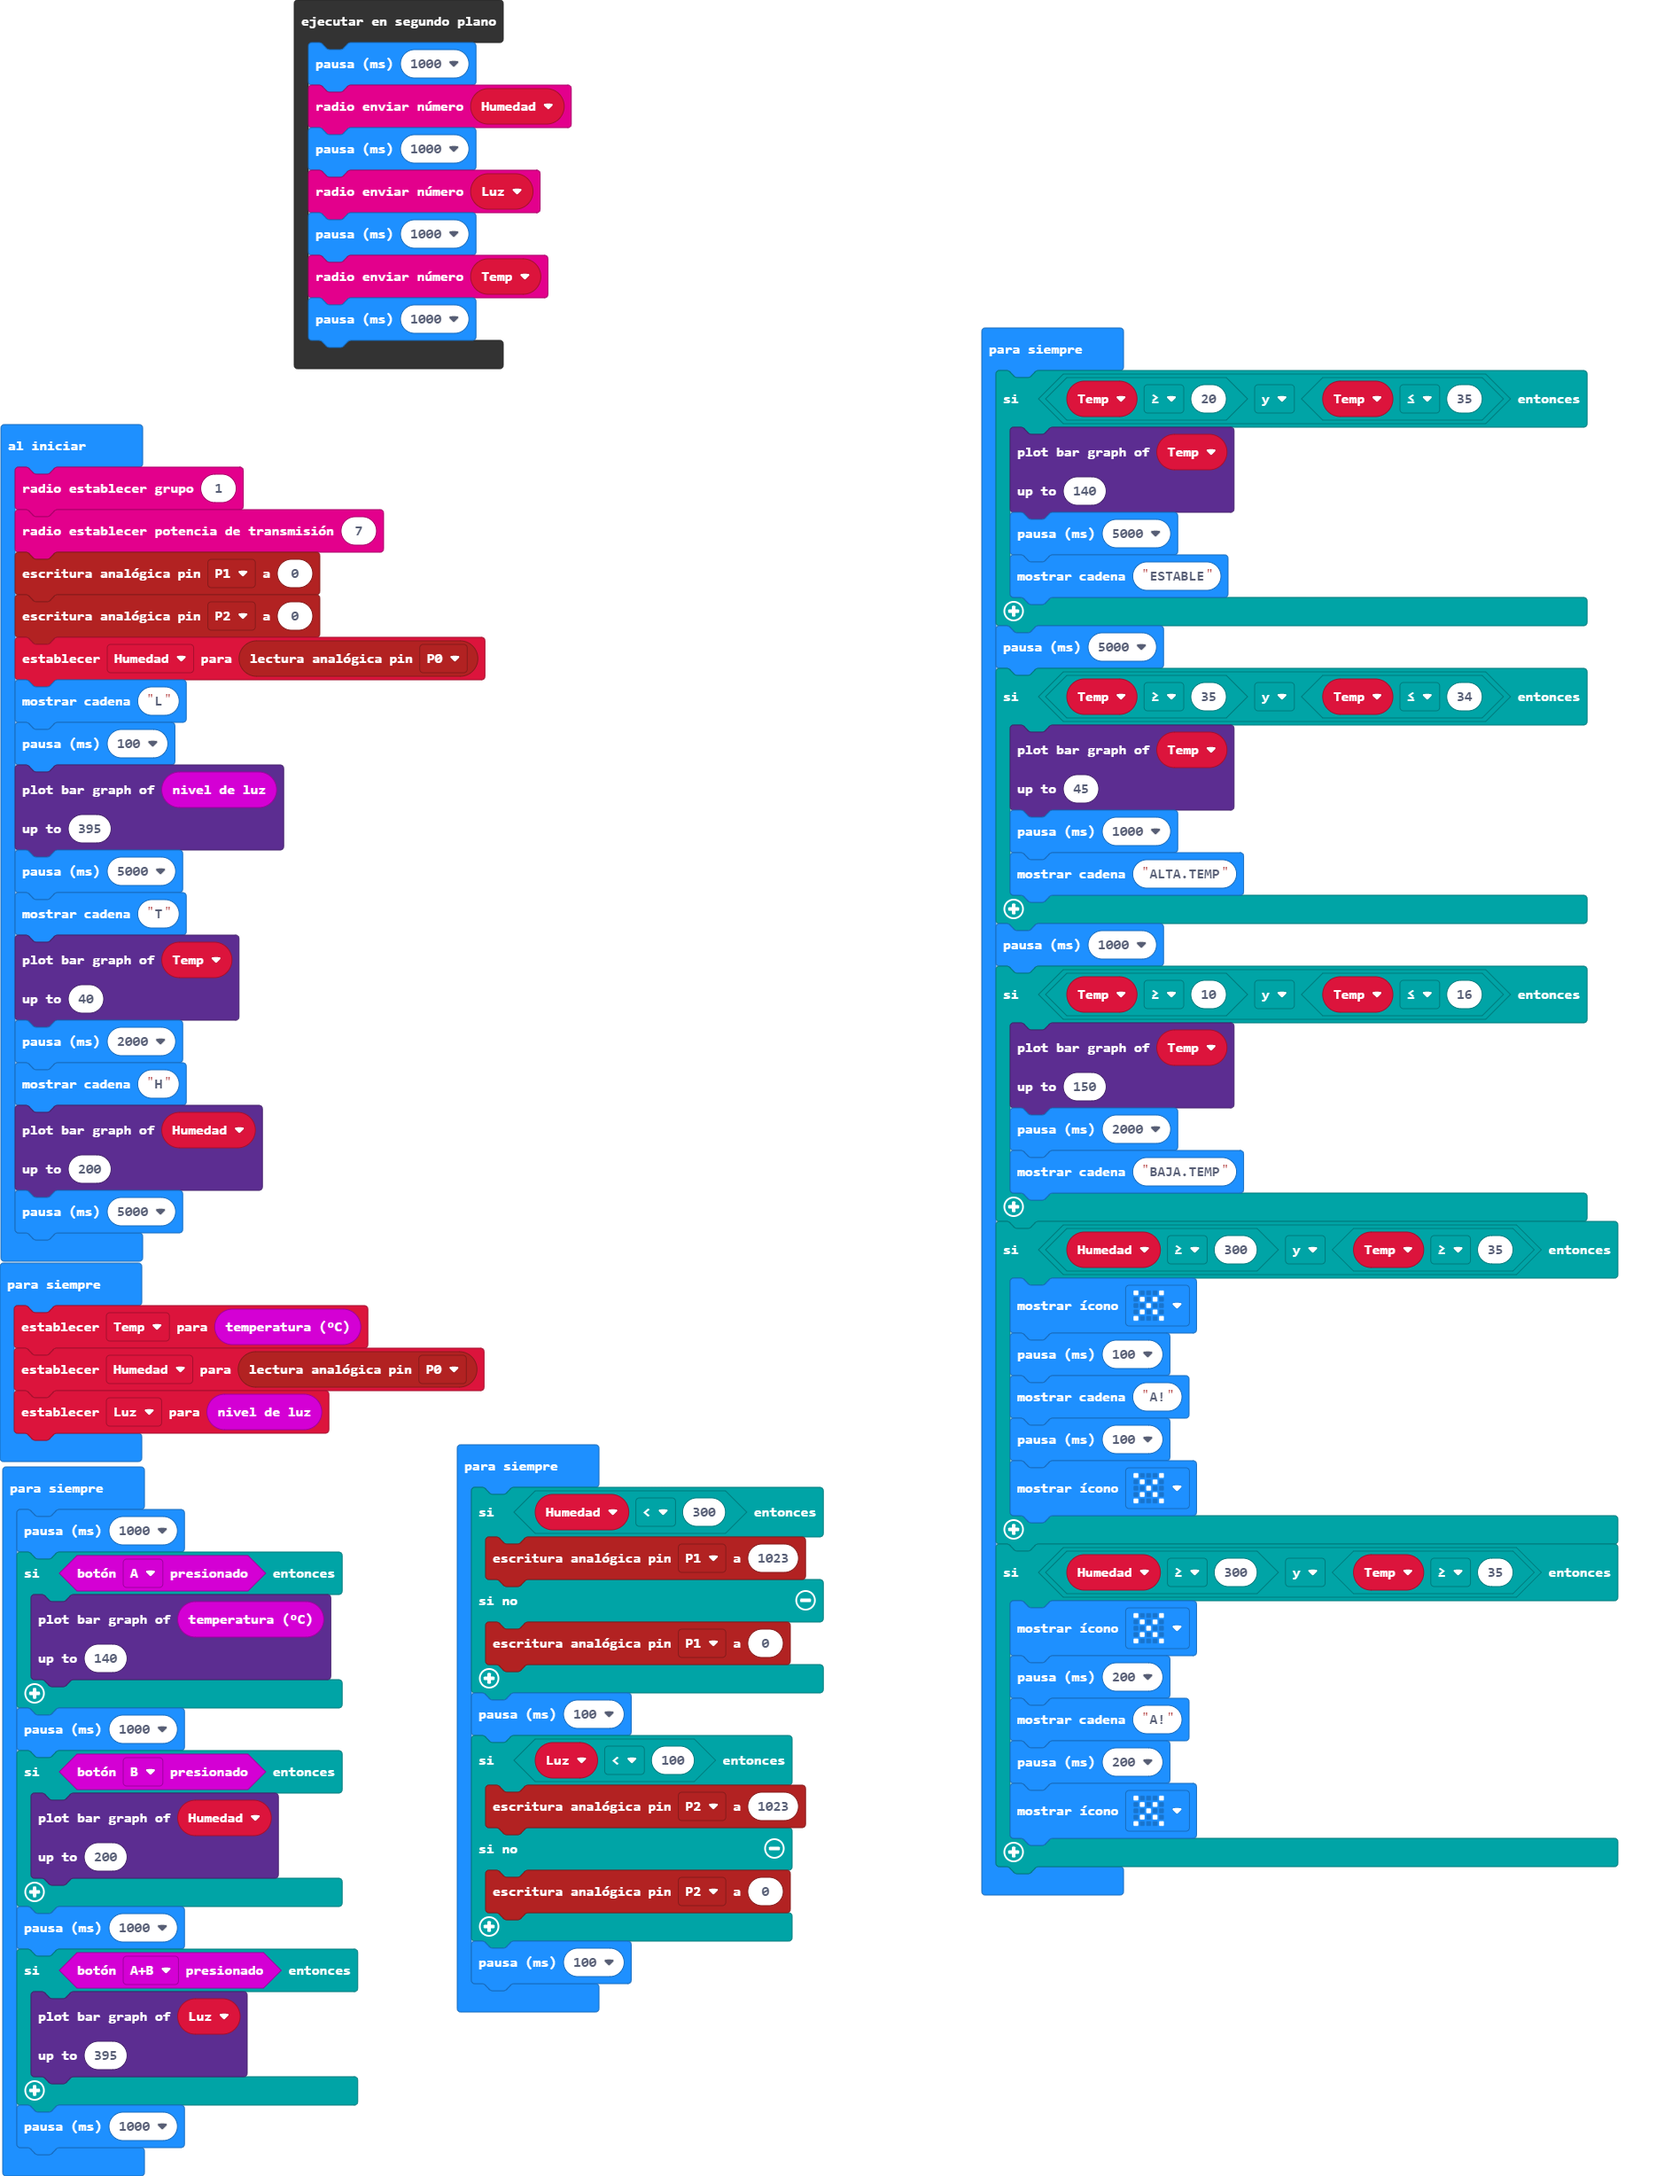
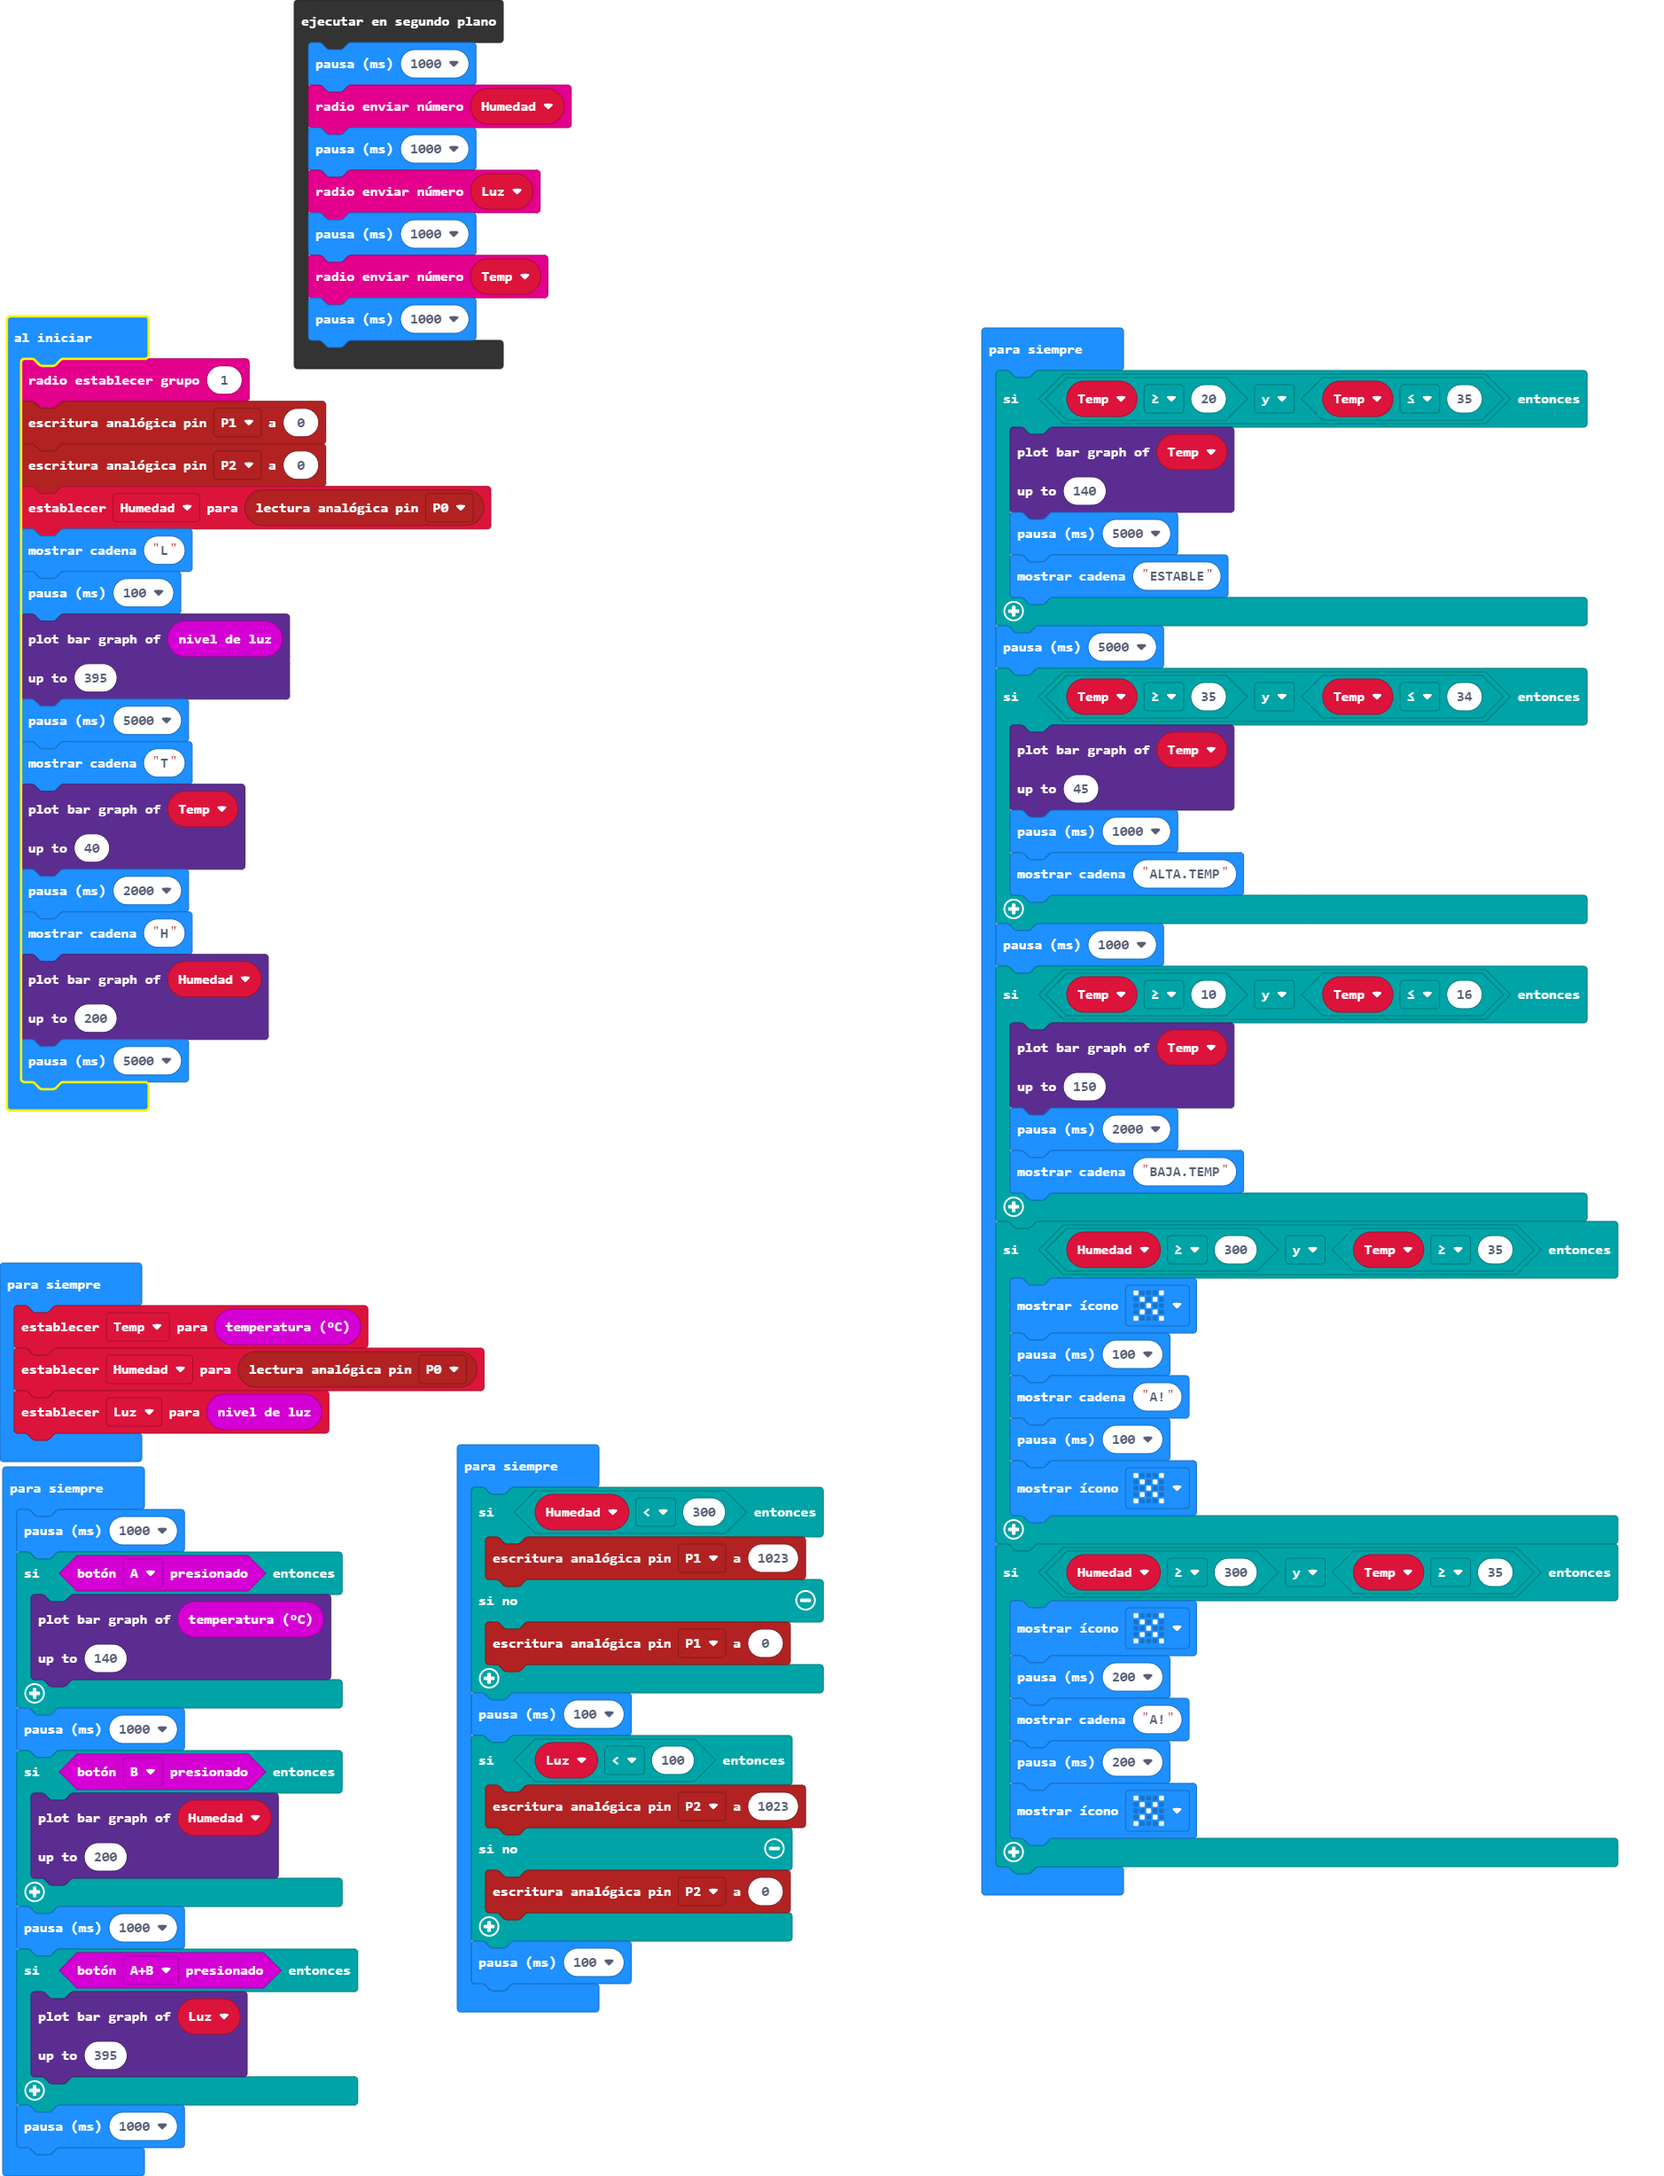
Actualizar main.blocks, main.ts

Changed region(s): [[0.0, 0.1238, 0.3088, 0.5882]]

diff --git a/main.ts b/main.ts
@@ -1,7 +1,6 @@
 let Luz = 0
 let Temp = 0
 radio.setGroup(1)
-radio.setTransmitPower(7)
 pins.analogWritePin(AnalogPin.P1, 0)
 pins.analogWritePin(AnalogPin.P2, 0)
 let Humedad = pins.analogReadPin(AnalogPin.P0)
